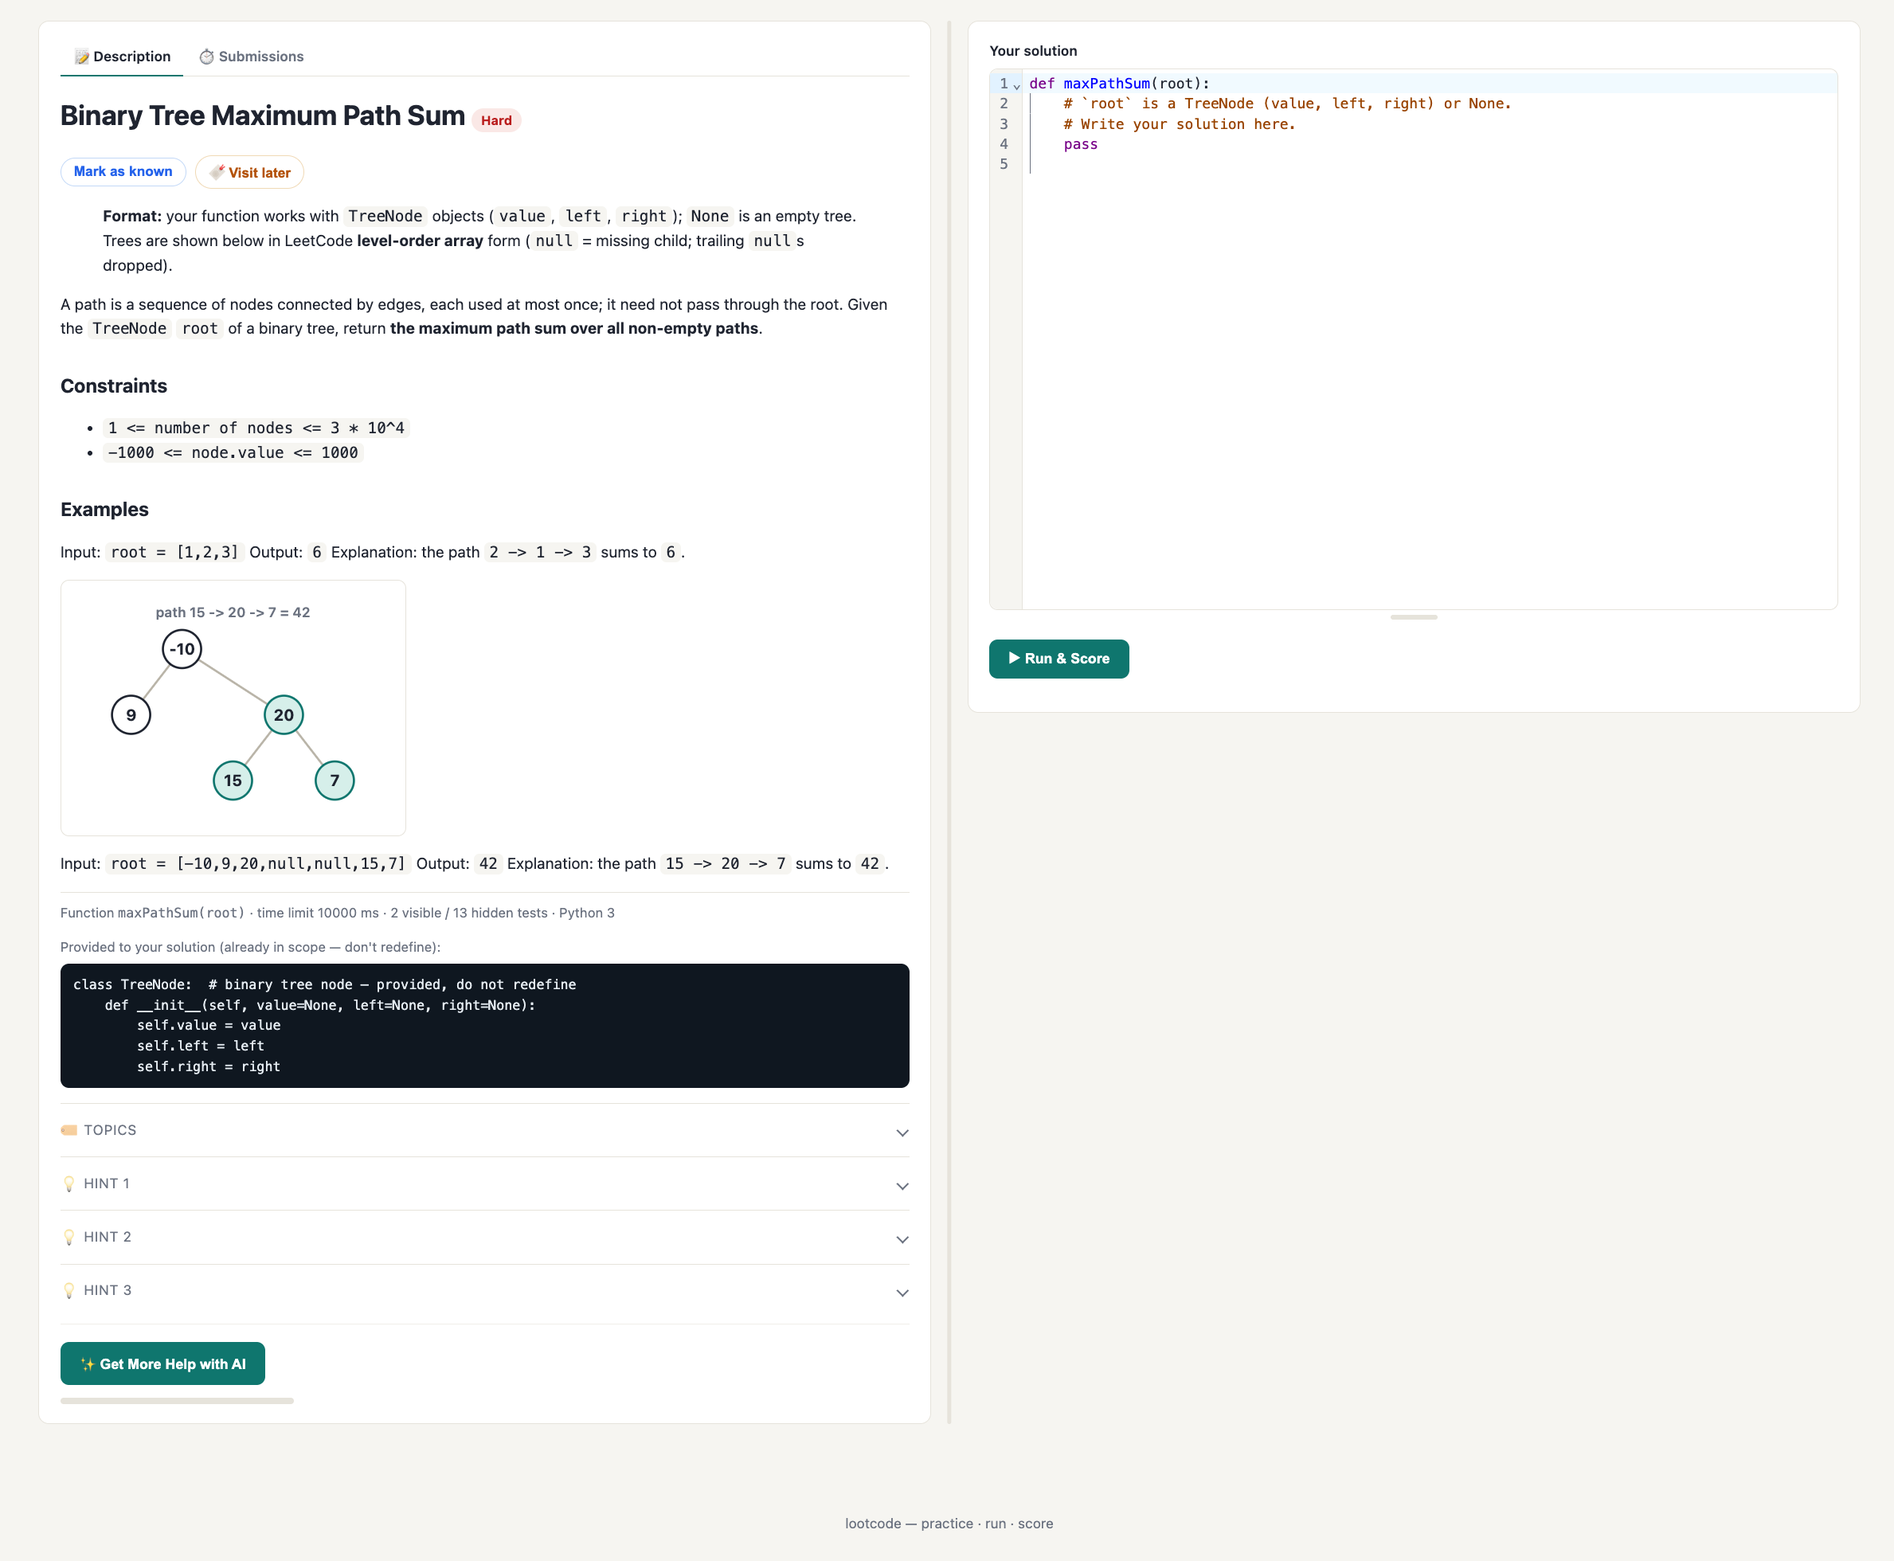
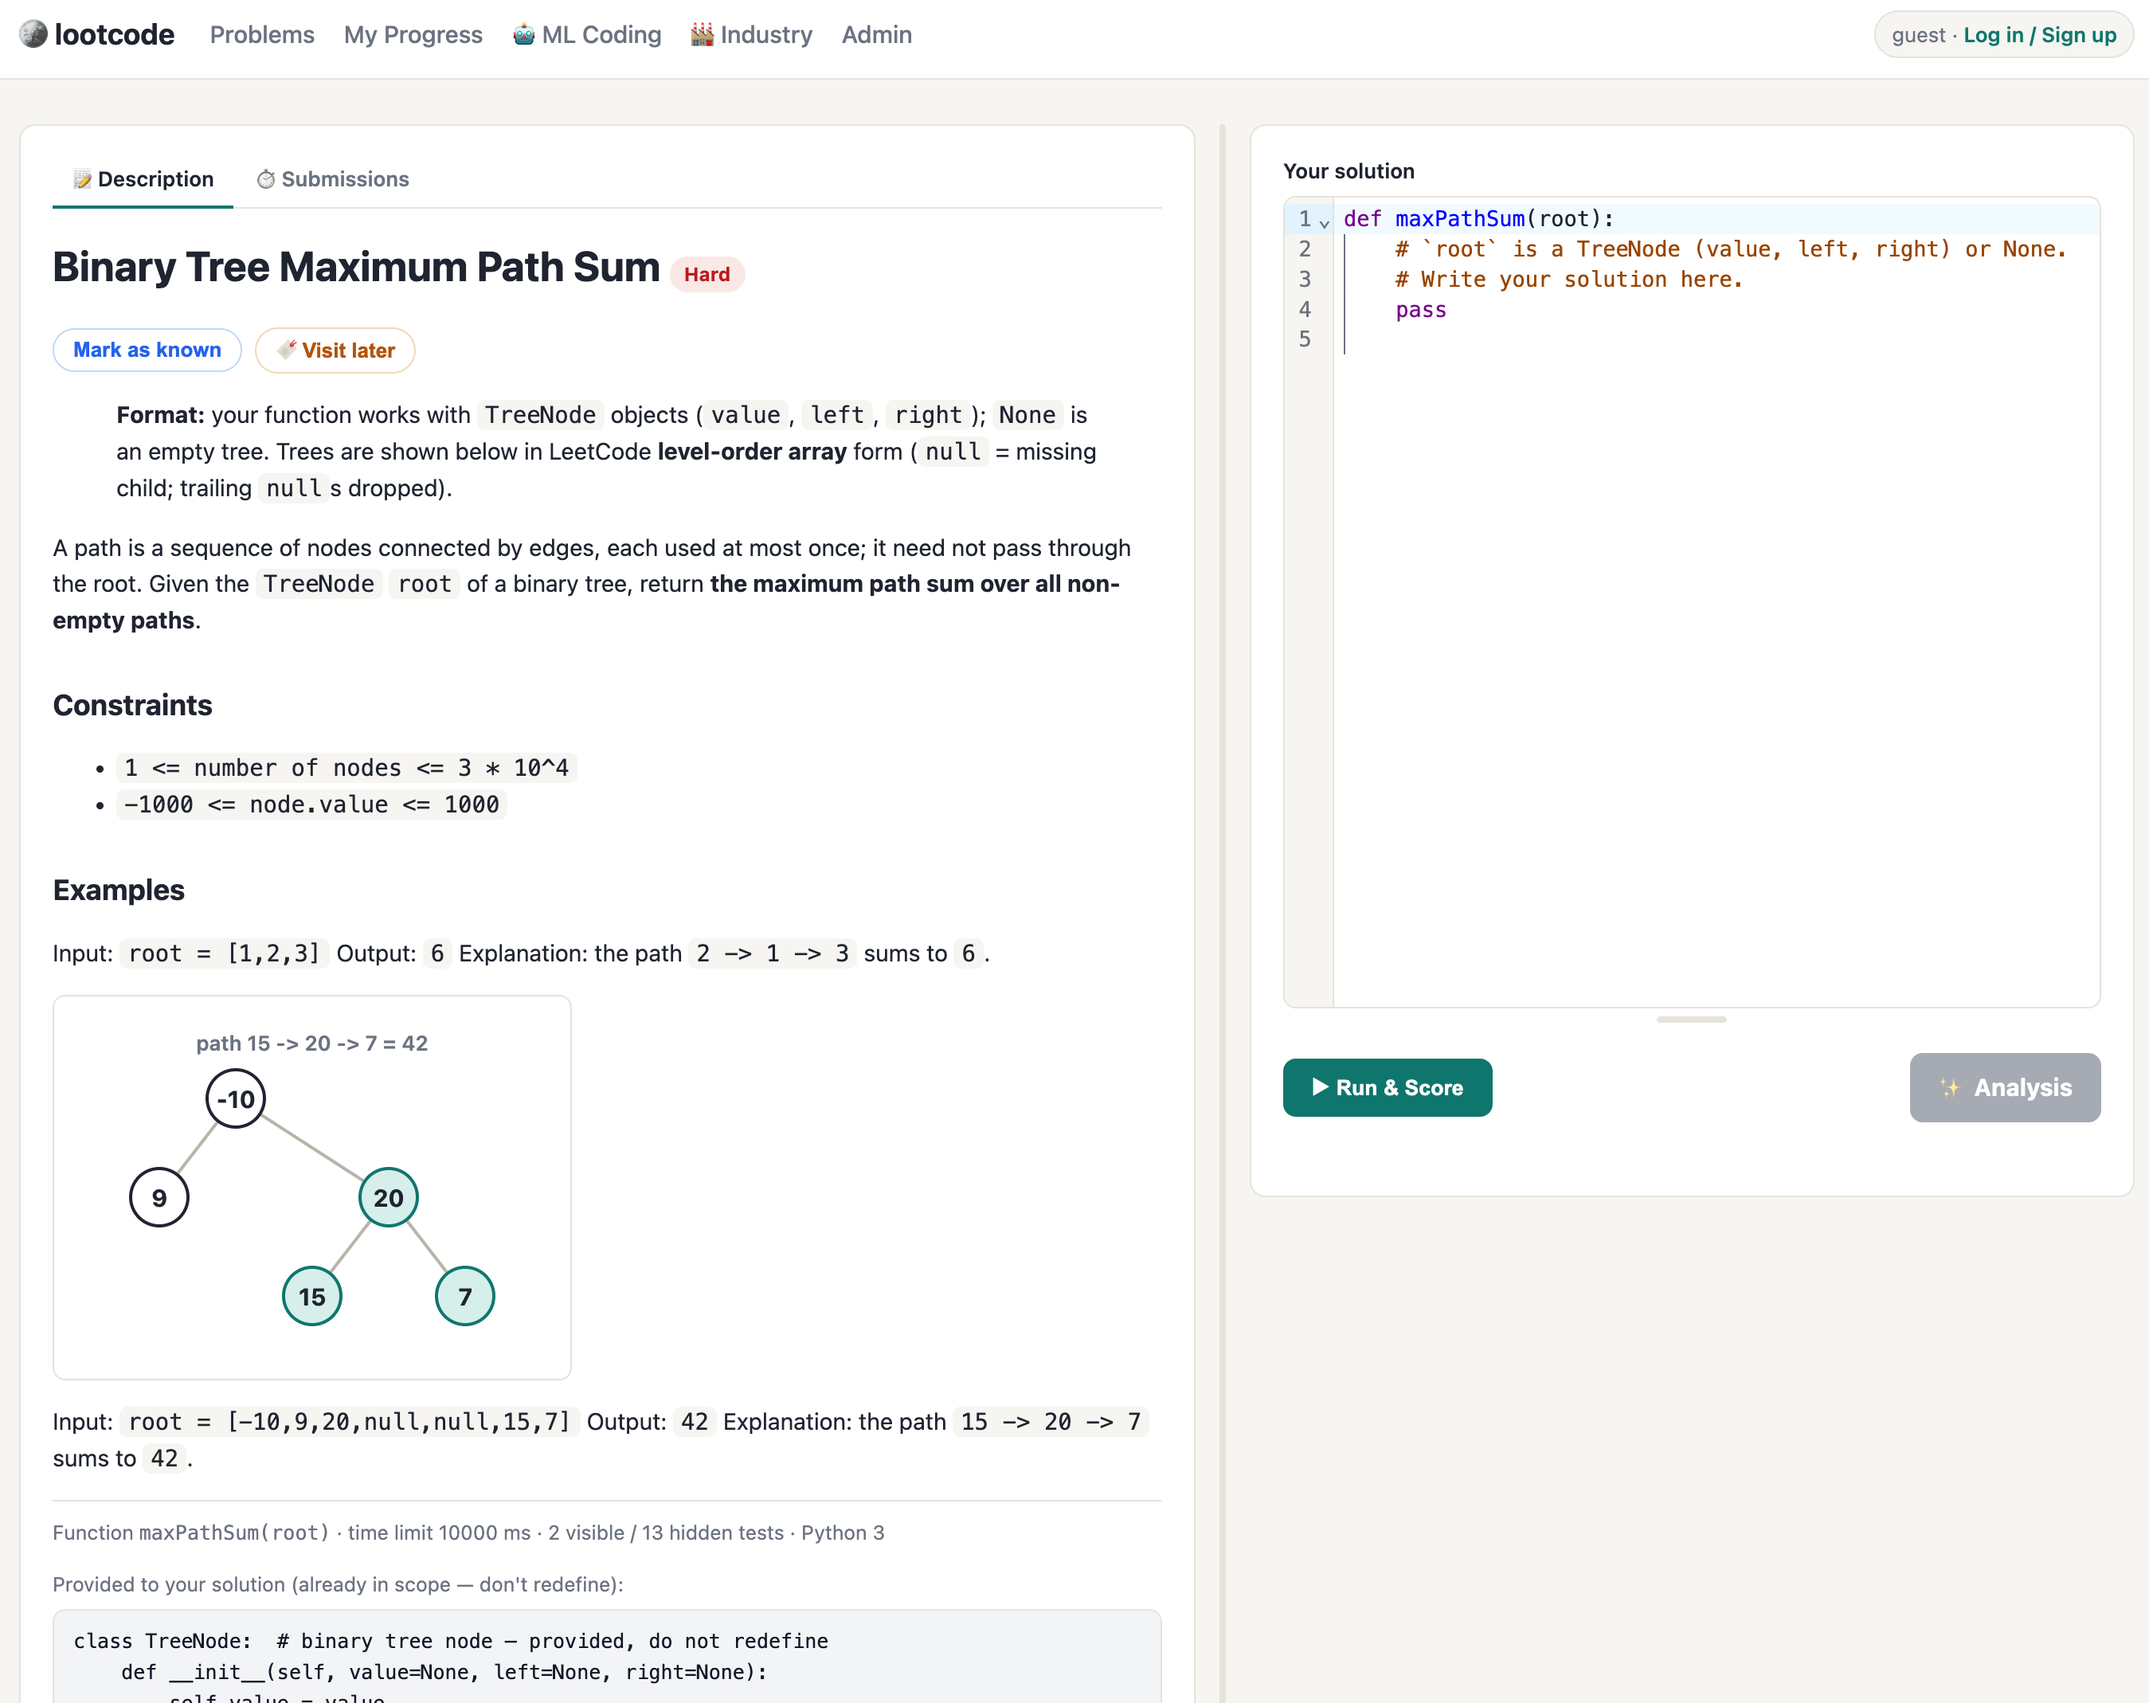
updated readme and screenshots

diff --git a/README.md b/README.md
@@ -27,20 +27,14 @@ Python 3 · FastAPI · SQLite · 800+ problems.
 - **Design problems**: implement a stateful class (LRU Cache, Min Stack, Browser History…), graded by replaying a sequence of method calls on one instance.
 - **Real data structures**: tree and linked-list problems give your code actual `TreeNode`, `ListNode` and doubly-linked `Node` objects, built the LeetCode way, so you write pointer code instead of parsing arrays.
 - **ML coding**: 69 implement-from-scratch machine-learning problems (attention, optimizers, losses, metrics…) using **numpy**, graded with a floating-point tolerance.
+- **Industrial Coding / CodeSignal Style**: Timed, four-level assessments in the shape used by real hiring loops. You implement one class. Each level adds requirements while the earlier ones must keep passing, and a level unlocks only when all of its tests, visible and hidden, pass, all against a 90-minute clock.
 
-### Run and score
-- **Run against every test**, visible and hidden, with weighted scoring and feedback on each visible test. Hidden tests are counted but never shown.
-- **Answer-aware judging**: exact match, any order, set of lists, or float-tolerant, whichever the statement promises.
-- **Sandboxed execution**: per-test time limits, a memory cap, a process cap (no fork bombs), an output cap and a throwaway working directory. Two backends: `subprocess` (default, no dependencies) and `docker` (network disabled, stronger isolation).
+<img src="images/ind.png" alt="ICF" width="800">
 
 ### AI assistance *(optional)*
-- **✨ Get More Help with AI**: still stuck after the stored hints? Get one extra, more specific hint, streamed live.
-- **✨ Analysis**: a LeetCode-style review of the code in your editor. It covers your approach and the suggested one, time and space complexity, and code style. Your code is graded first, so the review knows whether it actually passes.
+- **✨ Get More Help with AI**: still stuck after the stored hints? Get one extra, more specific hint, using local LLM or API key.
+- **✨ AI Solution Analysis**: a LeetCode-style review of the code in your editor. It covers your approach and the suggested one, time and space complexity, and code style. Your code is graded first, so the review knows whether it actually passes.
 - Works with **any OpenAI-compatible endpoint** (for example a local llama.cpp server). The buttons turn on and off automatically as the server comes and goes.
-
-### Progress
-- **No-password profiles**: a cookie gives every visitor their own identity right away. Optional username/password accounts carry your progress across devices, and your guest progress is merged in when you sign up.
-- **My Progress**: a weekly goal tracker (Easy = 1, Medium = 4, Hard = 8 units; extra work carries over to the next days), a monthly calendar, recent submissions, and solved totals by difficulty and topic.
 
 ### Industry Coding Framework *(optional extension)*
 Timed, four-level assessments in the shape used by real hiring loops. You implement **one class**. Each level adds requirements while the earlier ones must keep passing, and a level unlocks only when all of its tests, visible *and* hidden, pass, all against a 90-minute clock. It lives entirely in `icf/`: delete the folder and lootcode works exactly as before. See [`icf/README.md`](icf/README.md).
@@ -48,6 +42,11 @@ Timed, four-level assessments in the shape used by real hiring loops. You implem
 ### Admin
 - **Add or edit problems** in a form. Every save runs the same checks: slug, structure, canonical tags, statement ↔ judge consistency, and the reference solution passing all tests.
 - **Generate with AI**: turn an idea into a statement, then the statement into a full problem (contract, solution, tests, hints). A duplicate check runs first, and nothing is saved until you review it.
+
+### Progress
+- **No-password profiles**: a cookie gives every visitor their own identity right away. Optional username/password accounts carry your progress across devices, and your guest progress is merged in when you sign up.
+- **My Progress**: a weekly goal tracker (Easy = 1, Medium = 4, Hard = 8 units; extra work carries over to the next days), a monthly calendar, recent submissions, and solved totals by difficulty and topic.
+
 
 <img src="images/prog.png" alt="Solving a problem in lootcode: statement on the left, in-browser Python editor on the right" width="800">
 
